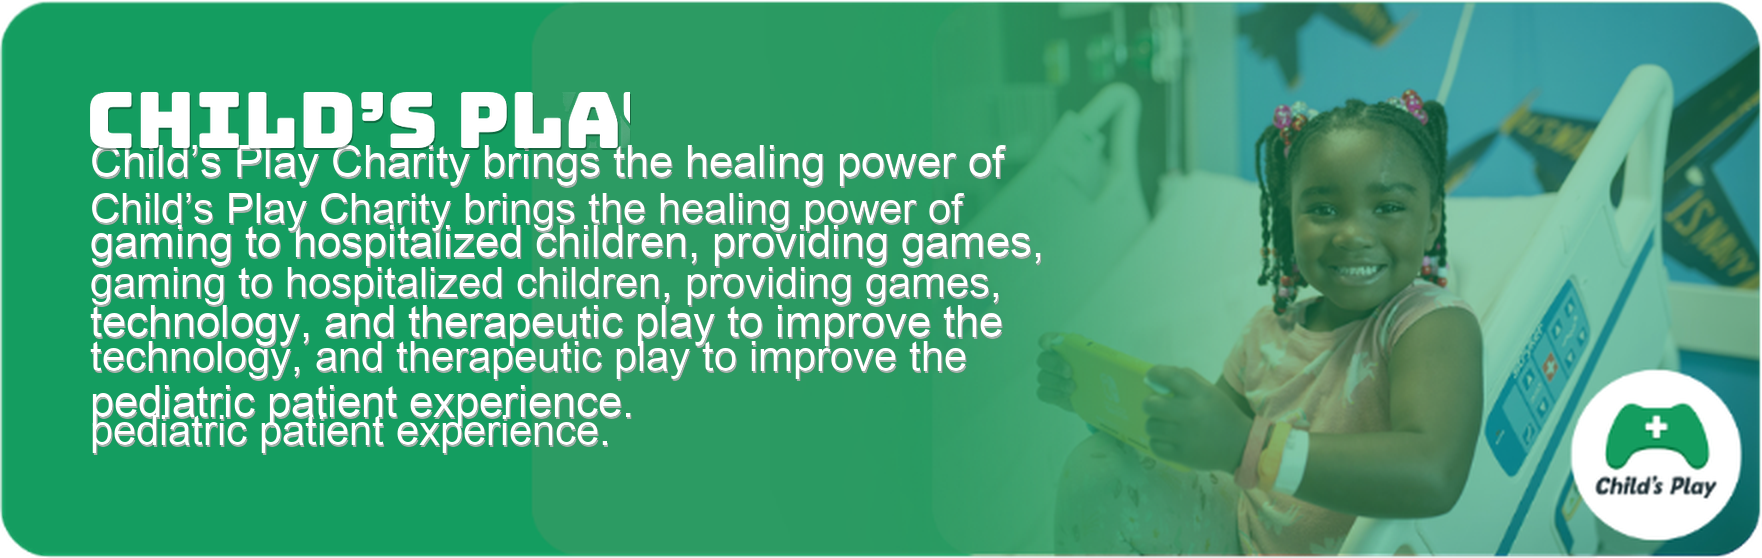
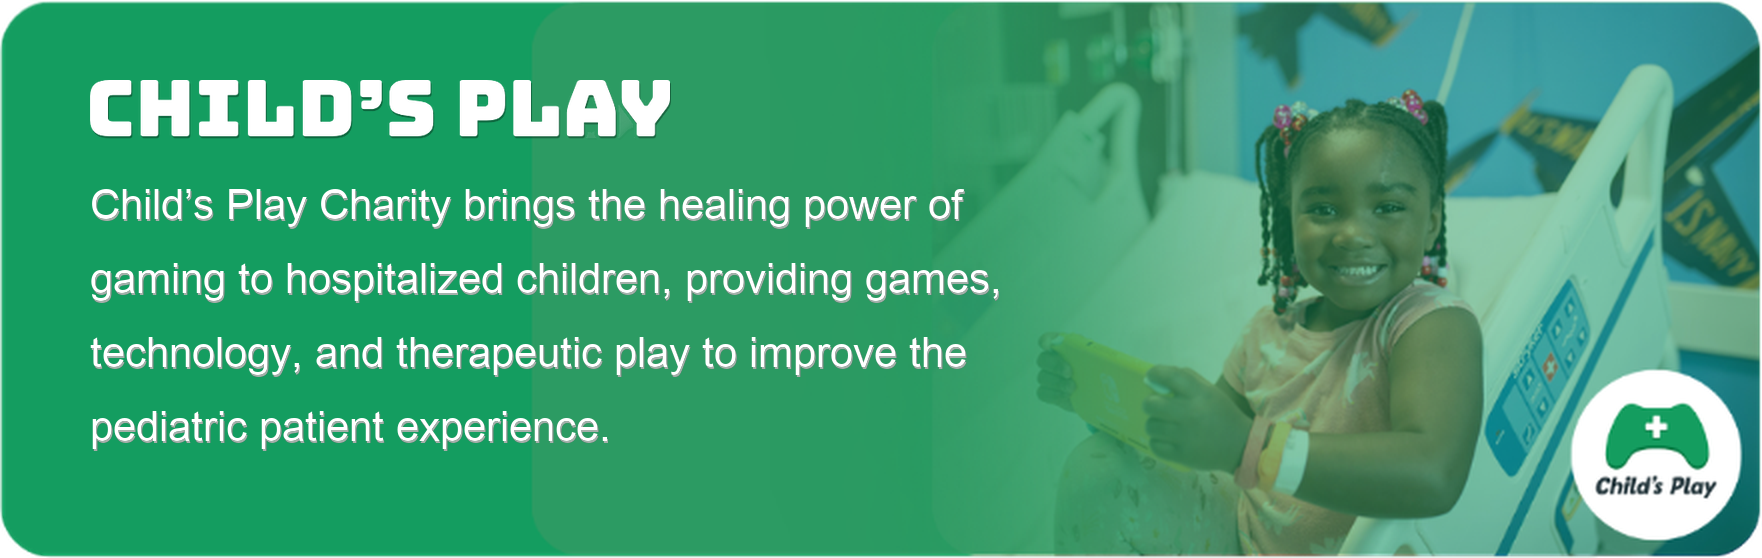
Fix Child's Play button tile: remove duplicate text overlay and restore full unclipped CHILD'S PLAY title

Changed region(s): [[0.0312, 0.1219, 0.5931, 0.8226]]

diff --git a/sw.js b/sw.js
@@ -1,5 +1,5 @@
 // Riley PWA Service Worker
-const CACHE_NAME = 'riley-pwa-v330';
+const CACHE_NAME = 'riley-pwa-v331';
 const PRECACHE_ASSETS = [
   './',
   './index.html',
